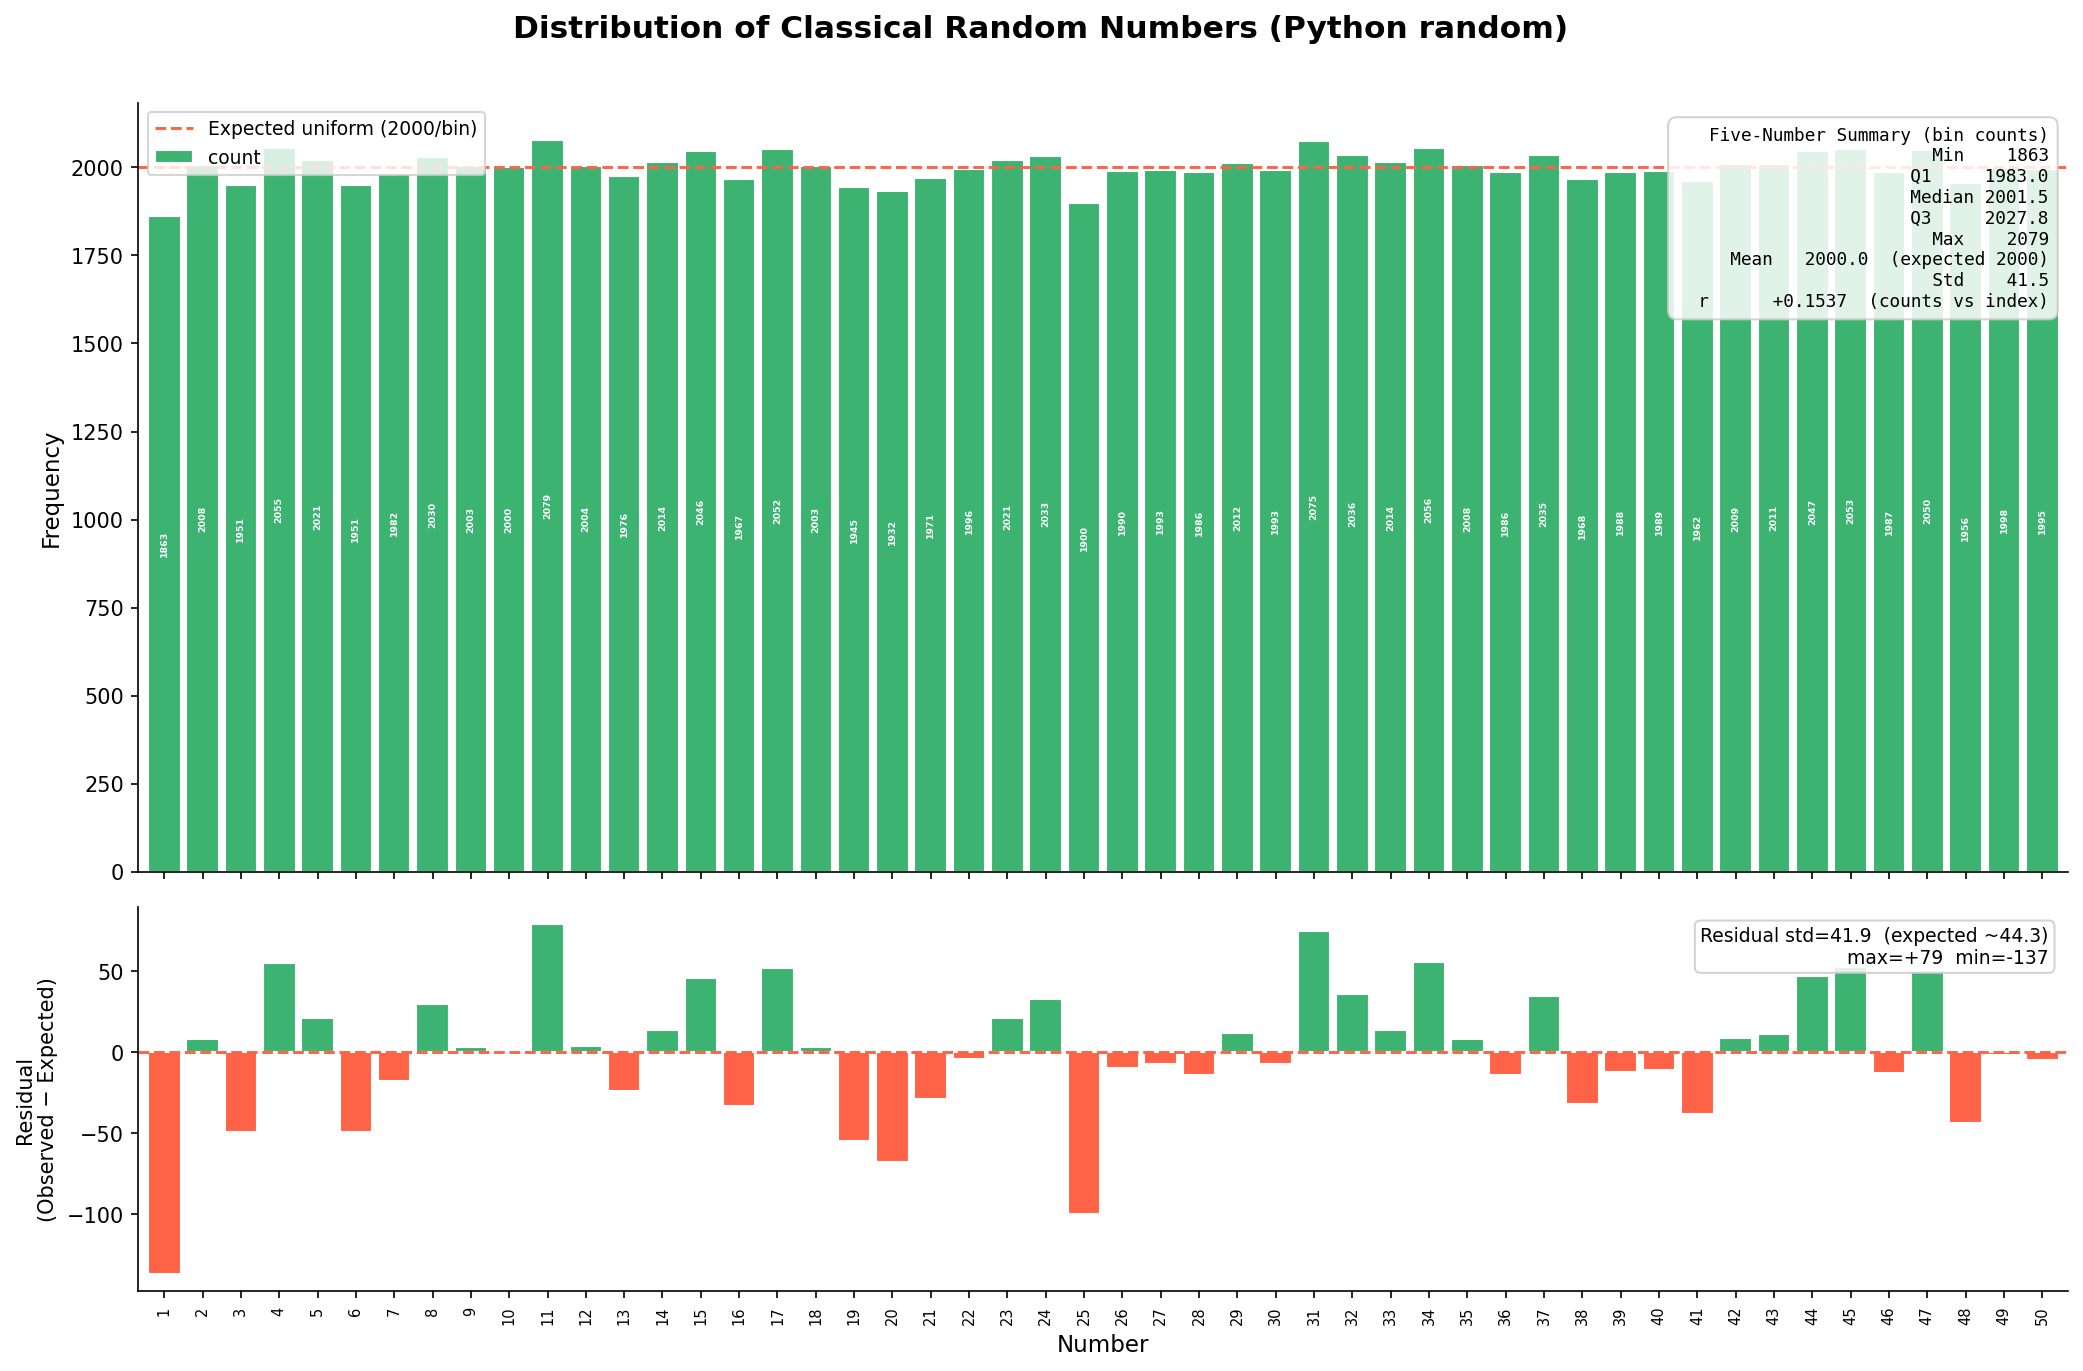
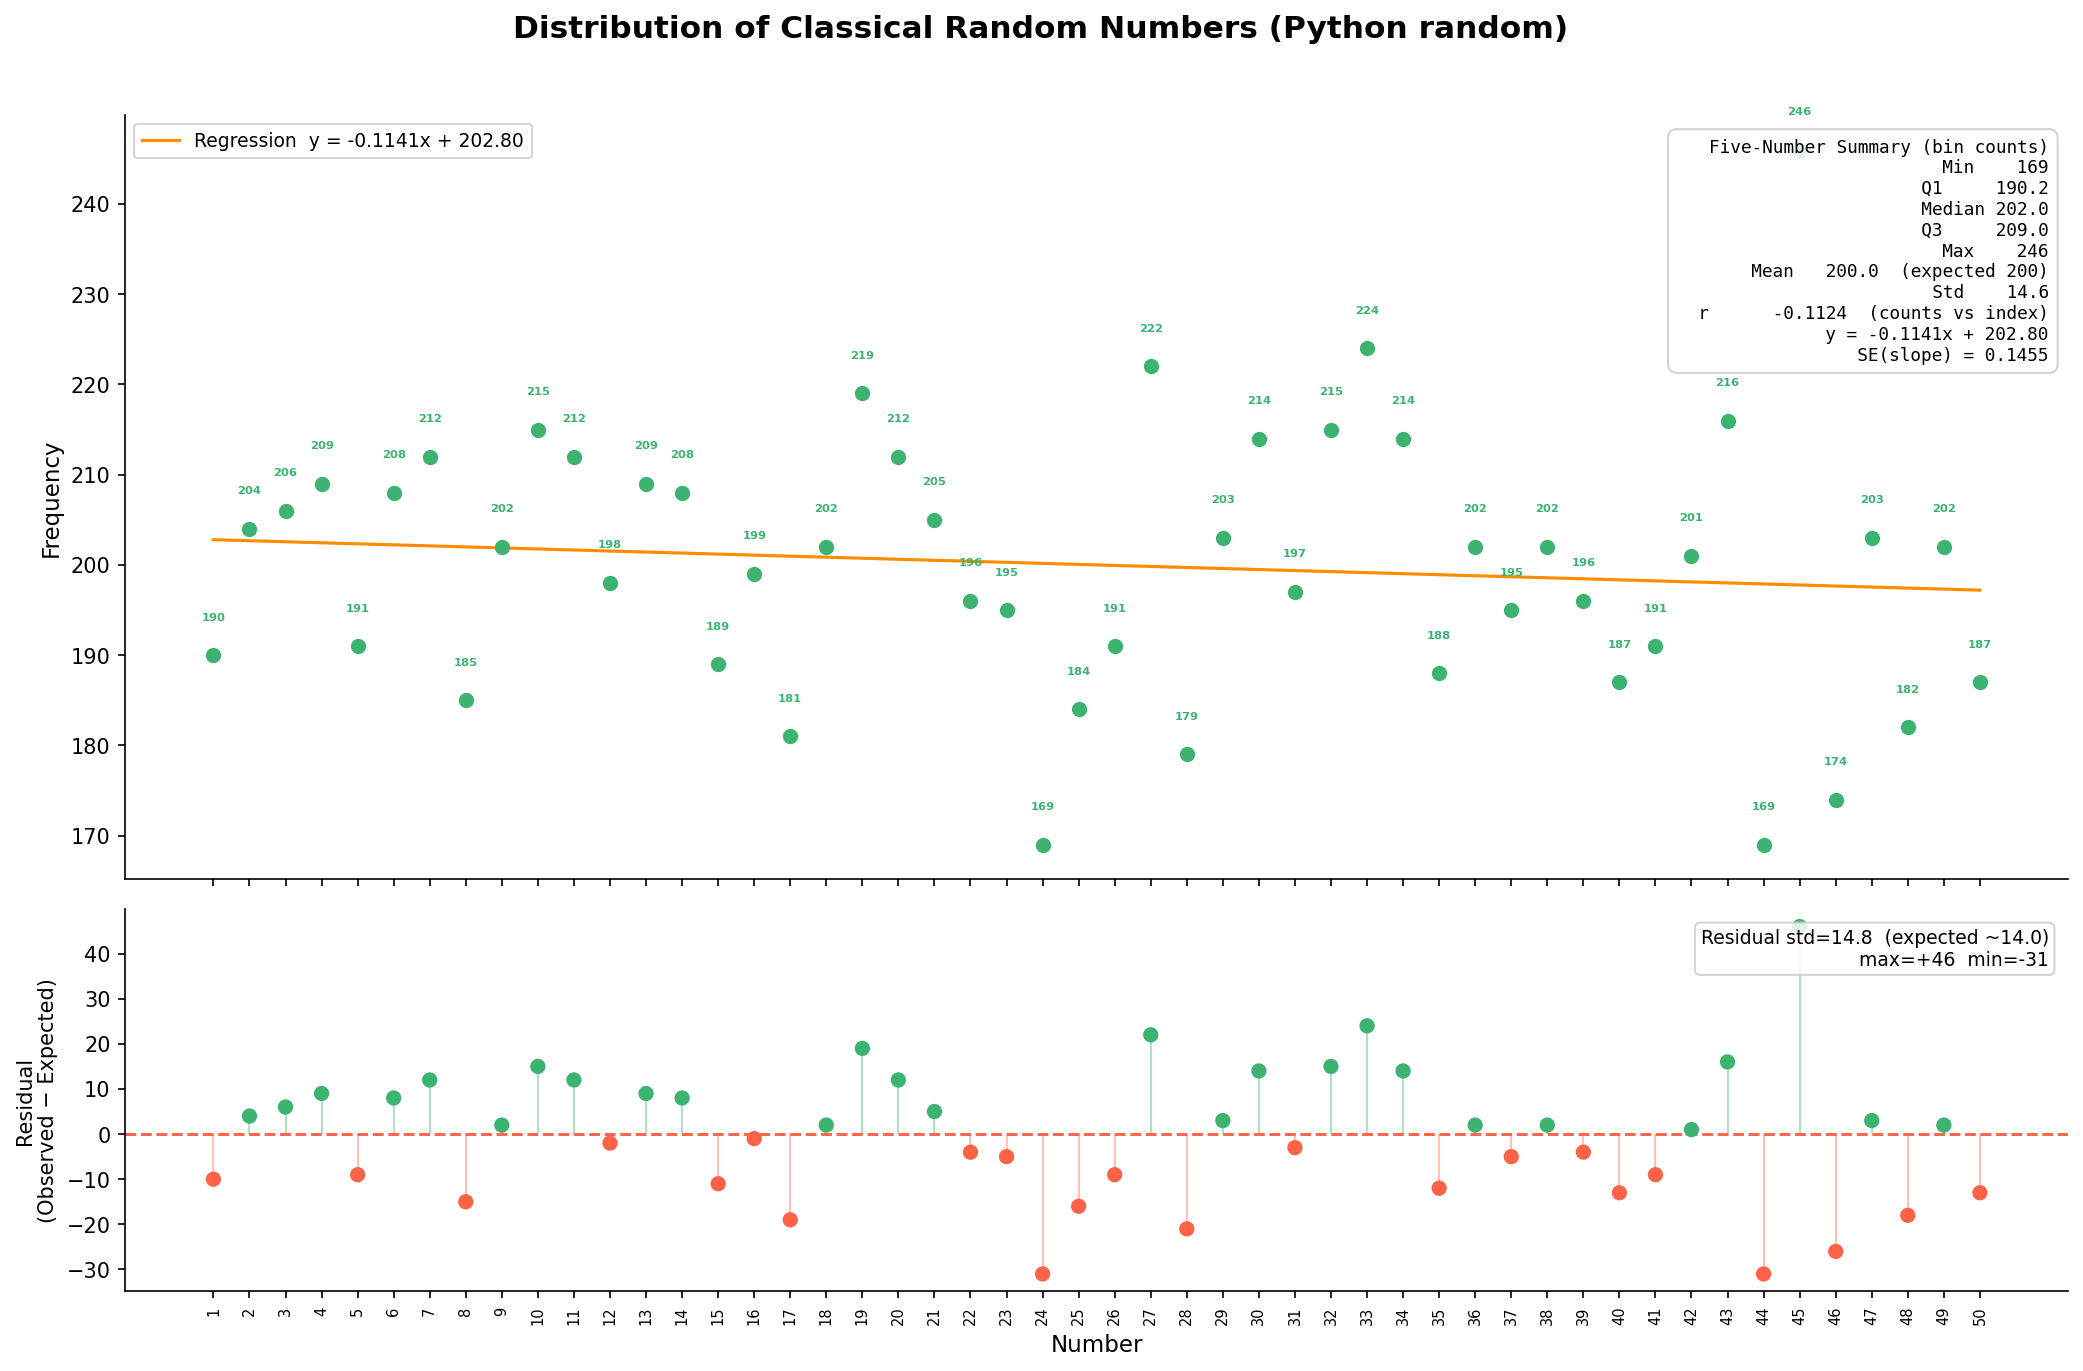
Final linear regression

diff --git a/RandomNumberDist.py b/RandomNumberDist.py
@@ -12,7 +12,7 @@ from qiskit_aer import AerSimulator
 def generate_random_number(start, end):
     """Generates a random number between start and end (inclusive)."""
     if start > end:
-        raise ValueError("Start must be less than or equal to end.")
+        raise ValueError("Start must be less than or equal   to end.")
     return random.randint(start, end)
 
 
@@ -121,17 +121,21 @@ def five_number_summary(dist: pd.Series, size: int) -> dict:
     # Tests for any systematic trend across the range (e.g. low numbers
     # appearing more than high numbers). For a truly uniform distribution
     # r should be close to 0.
+    from scipy import stats
     bin_indices = np.arange(len(v), dtype=float)
-    r = float(np.corrcoef(v, bin_indices)[0, 1])
+    reg = stats.linregress(bin_indices, v)
     return {
-        "Min":    int(v.min()),
-        "Q1":     float(np.percentile(v, 25)),
-        "Median": float(np.median(v)),
-        "Q3":     float(np.percentile(v, 75)),
-        "Max":    int(v.max()),
-        "Mean":   float(v.mean()),
-        "Std":    float(v.std()),
-        "r":      r,
+        "Min":       int(v.min()),
+        "Q1":        float(np.percentile(v, 25)),
+        "Median":    float(np.median(v)),
+        "Q3":        float(np.percentile(v, 75)),
+        "Max":       int(v.max()),
+        "Mean":      float(v.mean()),
+        "Std":       float(v.std()),
+        "r":         float(reg.rvalue),
+        "slope":     float(reg.slope),
+        "intercept": float(reg.intercept),
+        "slope_se":  float(reg.stderr),
     }
 
 
@@ -148,6 +152,8 @@ def add_summary_box(ax, summary: dict, expected: float, loc: str = "upper right"
         f"  Mean   {summary['Mean']:.1f}  (expected {expected:.0f})",
         f"  Std    {summary['Std']:.1f}",
         f"  r      {r_val:+.4f}  (counts vs index)",
+        f"  y = {summary['slope']:+.4f}x + {summary['intercept']:.2f}",
+        f"  SE(slope) = {summary['slope_se']:.4f}",
     ]
     text = "\n".join(lines)
     x = 0.99 if "right" in loc else 0.01
@@ -163,13 +169,14 @@ def add_summary_box(ax, summary: dict, expected: float, loc: str = "upper right"
 def plot_distribution(dist: pd.Series, title: str, size: int,
                       bar_color: str = "steelblue", save_path: str = None):
     """
-    Two-panel plot: frequency bars + residuals, with a five-number summary box.
+    Two-panel scatter plot: frequency + residuals, with a five-number summary box.
     Works for both classical and quantum distributions.
     """
-    expected  = size / len(dist)
-    residuals = dist - expected
-    summary   = five_number_summary(dist, size)
+    expected     = size / len(dist)
+    residuals    = dist - expected
+    summary      = five_number_summary(dist, size)
     std_expected = math.sqrt(expected * (1 - 1 / len(dist)))
+    xs           = dist.index.to_numpy()
 
     fig, (ax1, ax2) = plt.subplots(
         2, 1, figsize=(14, 9), sharex=True,
@@ -177,37 +184,37 @@ def plot_distribution(dist: pd.Series, title: str, size: int,
     )
     fig.suptitle(title, fontsize=15, fontweight="bold", y=1.01)
 
-    # ── Top: frequency distribution ───────────────────────────────────────────
-    dist.plot(kind="bar", ax=ax1, color=bar_color, edgecolor="white", width=0.85)
-    ax1.axhline(expected, color="tomato", linewidth=1.4, linestyle="--",
-                label=f"Expected uniform ({expected:.0f}/bin)")
+    # ── Top: frequency scatter ────────────────────────────────────────────────
+    ax1.scatter(xs, dist.values, color=bar_color, s=40, zorder=3)
     ax1.set_ylabel("Frequency", fontsize=11)
     ax1.tick_params(axis="x", labelbottom=False)
-    ax1.legend(fontsize=9)
     ax1.spines[["top", "right"]].set_visible(False)
     add_summary_box(ax1, summary, expected, loc="upper right")
 
-    # Label each bar with its count, rotated vertically inside the bar
-    for patch, val in zip(ax1.patches, dist.values):
-        bar_height = patch.get_height()
-        ax1.text(
-            patch.get_x() + patch.get_width() / 2,  # horizontal center
-            bar_height * 0.5,                        # halfway up the bar
-            str(val),
-            ha="center", va="center",
-            fontsize=4.5, color="white", fontweight="bold",
-            rotation=90,
-        )
+    # Draw linear regression line on the frequency scatter
+    reg_xs   = np.array([xs.min(), xs.max()])
+    bin_idx  = np.arange(len(dist), dtype=float)
+    reg_ys   = summary["slope"] * np.array([0, len(dist) - 1]) + summary["intercept"]
+    ax1.plot(reg_xs, reg_ys, color="darkorange", linewidth=1.5,
+             linestyle="-", label=f"Regression  y = {summary['slope']:+.4f}x + {summary['intercept']:.2f}")
+    ax1.legend(fontsize=9)
 
-    # ── Bottom: residuals ─────────────────────────────────────────────────────
-    res_colors = [bar_color if v >= 0 else "tomato" for v in residuals]
-    ax2.bar(range(len(residuals)), residuals.values,
-            color=res_colors, edgecolor="white", width=0.85)
+    # Label each point with its count, offset just above the dot
+    for x, val in zip(xs, dist.values):
+        ax1.text(x, val + summary["Std"] * 0.25, str(val),
+                 ha="center", va="bottom", fontsize=5.5,
+                 color=bar_color, fontweight="bold")
+
+    # ── Bottom: residuals scatter ─────────────────────────────────────────────
+    res_vals   = residuals.values
+    res_colors = [bar_color if v >= 0 else "tomato" for v in res_vals]
+    ax2.scatter(xs, res_vals, color=res_colors, s=40, zorder=3)
+    ax2.vlines(xs, 0, res_vals, color=res_colors, alpha=0.4, linewidth=1)
     ax2.axhline(0, color="tomato", linewidth=1.4, linestyle="--")
     ax2.set_ylabel("Residual\n(Observed − Expected)", fontsize=10)
     ax2.set_xlabel("Number", fontsize=11)
-    ax2.set_xticks(range(len(dist)))
-    ax2.set_xticklabels(dist.index, fontsize=7, rotation=90)
+    ax2.set_xticks(xs)
+    ax2.set_xticklabels(xs, fontsize=7, rotation=90)
     ax2.spines[["top", "right"]].set_visible(False)
 
     ax2.text(0.99, 0.95,
@@ -226,7 +233,7 @@ def plot_distribution(dist: pd.Series, title: str, size: int,
 # ── Main ──────────────────────────────────────────────────────────────────────
 if __name__ == "__main__":
 
-    START, END, SIZE = 1, 50, 100_000
+    START, END, SIZE = 1, 50, 10_000
 
     # ── Classical distribution ────────────────────────────────────────────────
     print("Generating classical distribution...")